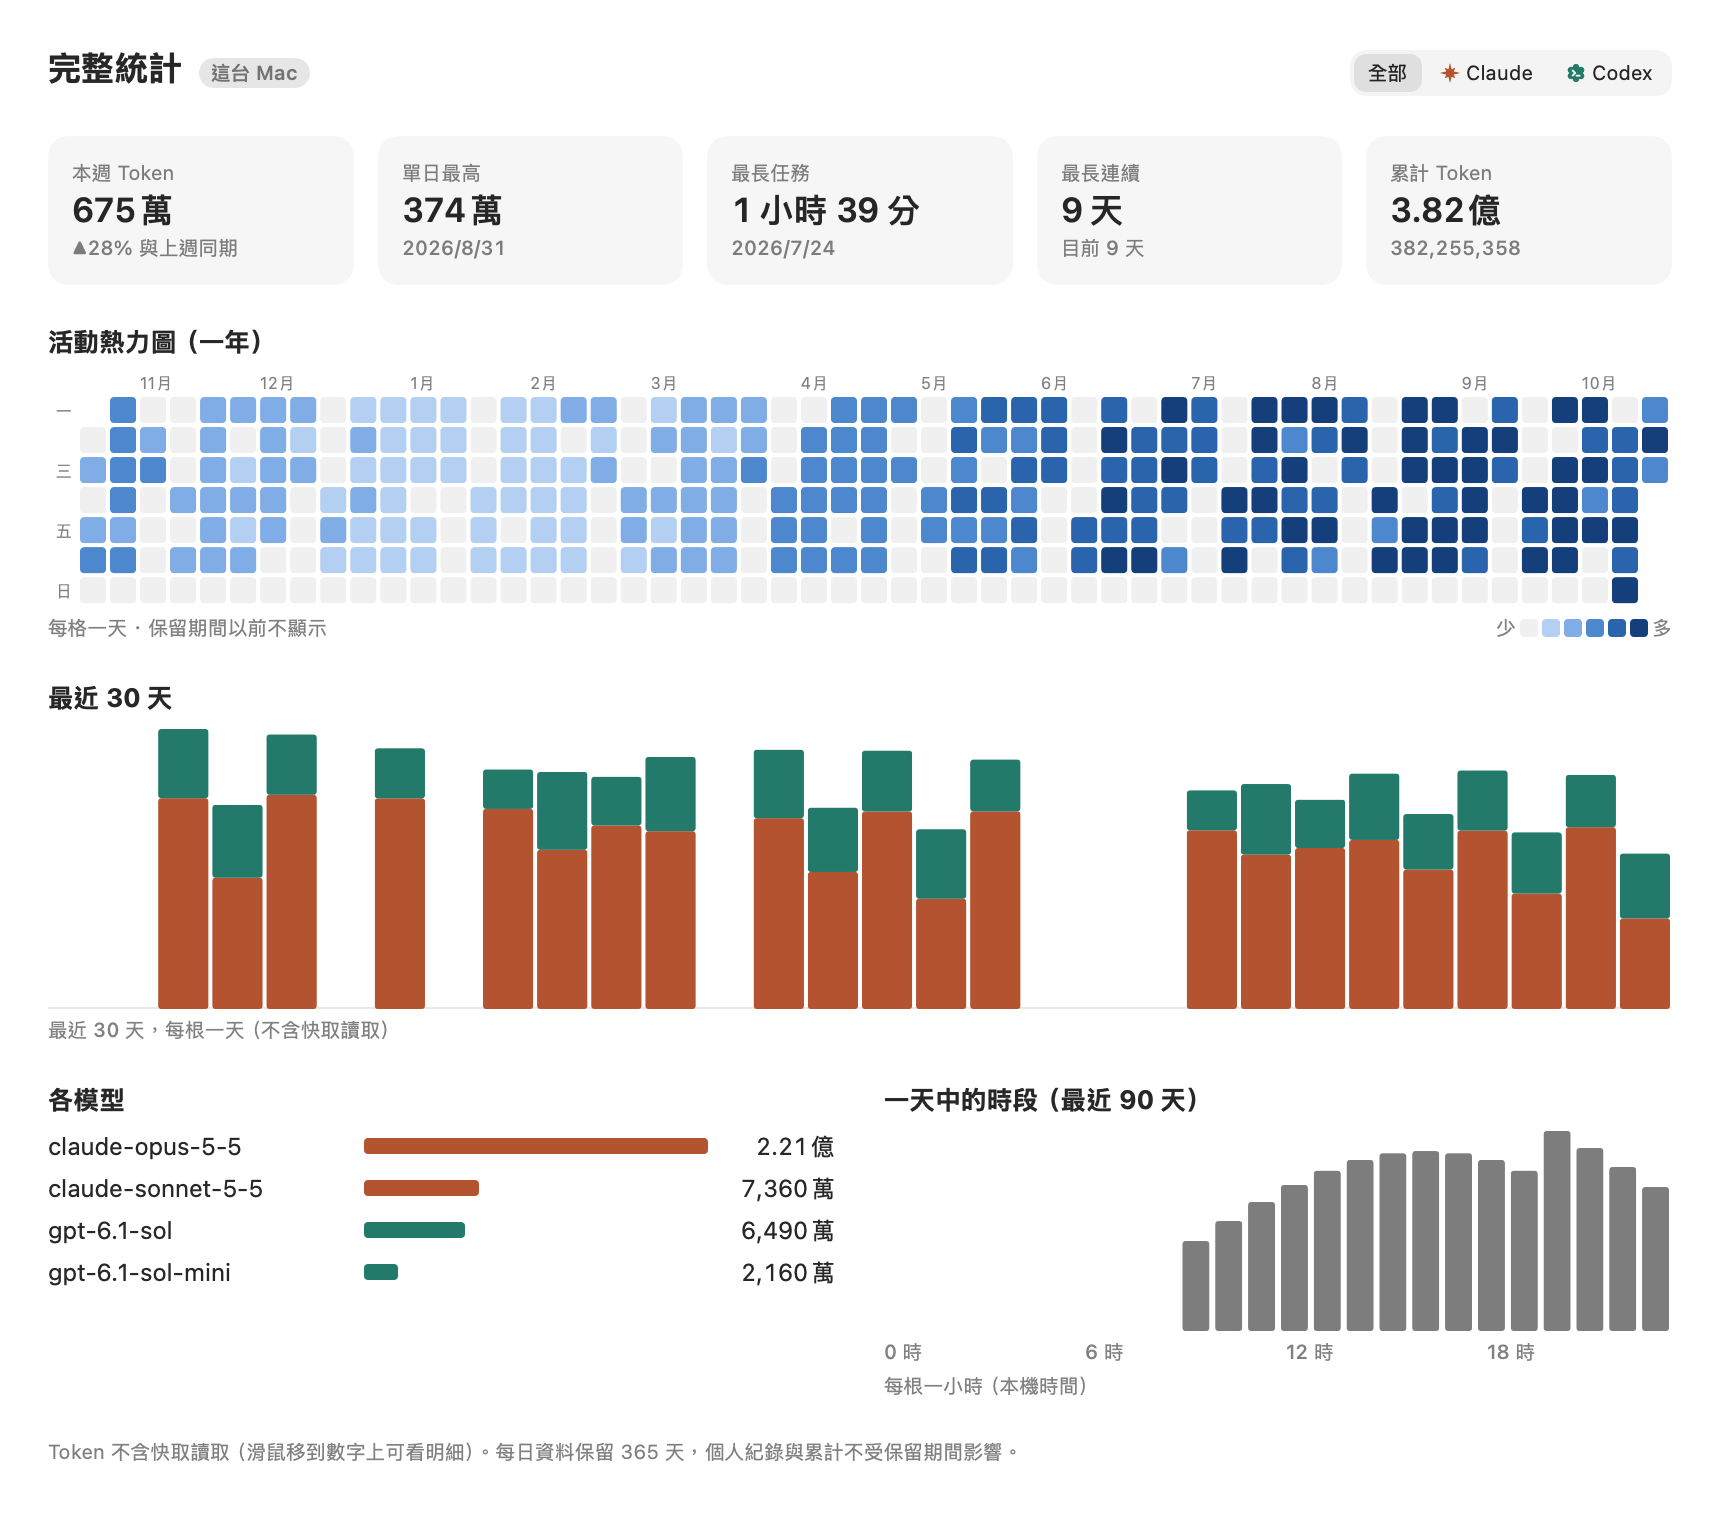
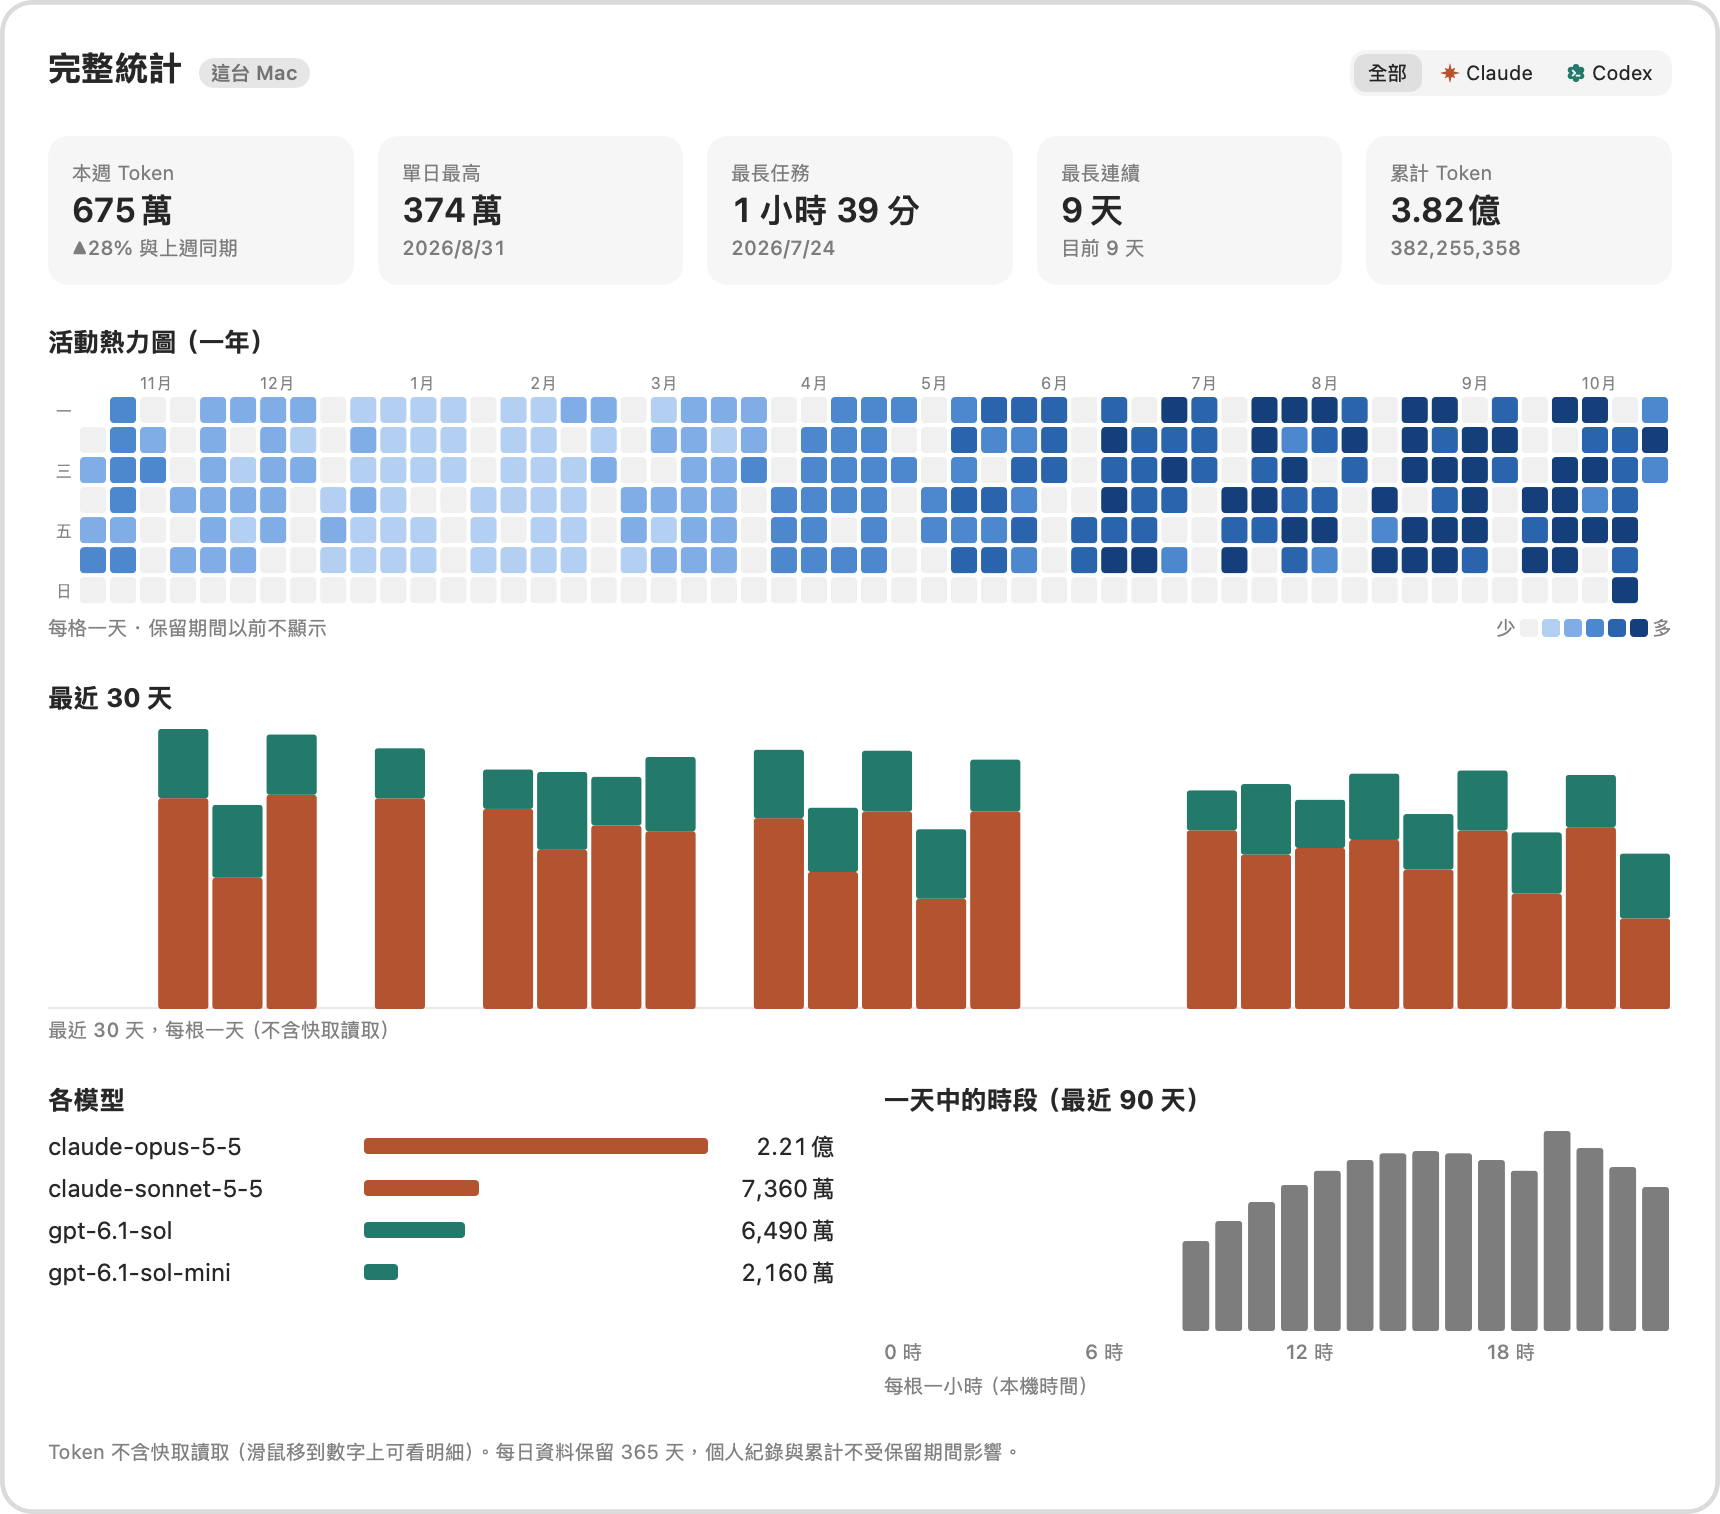
docs: README screenshots in equal-height rows with frames
The top row is the upper half of the Mac panel next to the iPhone app
(the full panel moves into a collapsible section), then the Dynamic
Island next to the watch. The stats GIF sits beside the full stats
window instead of beside the panel. Widths are chosen so images in a
row have the same height, and every screen gets rounded corners and a
thin border so white screens no longer blend into the page.

Changed region(s): [[0.0, 0.0, 1.0, 1.0]]

diff --git a/README.md b/README.md
@@ -6,30 +6,36 @@
 
 > 目前發布的版本是 [0.5.0](CHANGELOG.md#050---2026-10-21)（只有原始碼）。之後的 Mac 面板與 Token 統計（v1.5～v1.8）、iPhone 小工具，以及外觀設定、一鍵安裝、設定精靈與 iPhone 配對（v1.9）已在 `main`，**尚未發版**，見 [CHANGELOG](CHANGELOG.md) 的 Unreleased 與[里程碑](docs/03-development-workflow.md#1-里程碑)。下表標「未發版」的功能要從原始碼安裝。
 
+<!-- 同一排的圖以寬度算成等高（SOURCES.tsv 的尺寸 × 寬度）；用 width 不用 height，窄螢幕時換行而不是壓扁 -->
+<p align="center">
+  <picture>
+    <source media="(prefers-color-scheme: dark)" srcset="docs/images/mac-panel-top-dark.png">
+    <img src="docs/images/mac-panel-top-light.png" width="291" alt="Mac 選單列面板的上半部：剩餘最少的額度、建議接下來用、各服務各額度的進度條與預期標記">
+  </picture>
+  &nbsp;&nbsp;
+  <picture>
+    <source media="(prefers-color-scheme: dark)" srcset="docs/images/iphone-app-dark.png">
+    <img src="docs/images/iphone-app-light.png" width="221" alt="iPhone App：剩餘最少的額度、各服務各額度的進度條與重置倒數">
+  </picture>
+</p>
+
+<p align="center">
+  <img src="docs/images/iphone-island.png" width="486" alt="動態島展開：剩餘最少的額度大字、兩個服務各額度的進度條與更新按鈕">
+  &nbsp;&nbsp;
+  <img src="docs/images/watch-app.png" width="159" alt="Apple Watch App：剩餘最少的額度與各額度進度條">
+</p>
+
+<details>
+<summary>看完整的 Mac 面板（接下來的重置、本週額度走勢、額度消耗、Token 統計、服務狀態）</summary>
+
 <p align="center">
   <picture>
     <source media="(prefers-color-scheme: dark)" srcset="docs/images/mac-panel-dark.png">
     <img src="docs/images/mac-panel-light.png" width="300" alt="Mac 選單列面板：剩餘最少的額度、建議接下來用、各額度進度條、接下來的重置、本週額度走勢、額度消耗、這台 Mac 的 Token 統計與服務狀態">
   </picture>
-  &nbsp;
-  <picture>
-    <source media="(prefers-color-scheme: dark)" srcset="docs/images/mac-stats-switch-dark.gif">
-    <img src="docs/images/mac-stats-switch-light.gif" width="300" alt="統計卡片依序切換全部、Claude、Codex：全部的熱力圖是藍色色階，Claude、Codex 用各自的識別色；Token 數以萬、億顯示">
-  </picture>
 </p>
 
-<p align="center">
-  <picture>
-    <source media="(prefers-color-scheme: dark)" srcset="docs/images/iphone-app-dark.png">
-    <img src="docs/images/iphone-app-light.png" width="240" alt="iPhone App：剩餘最少的額度、各服務各額度的進度條與重置倒數">
-  </picture>
-  &nbsp;
-  <img src="docs/images/watch-app.png" width="200" alt="Apple Watch App：剩餘最少的額度與各額度進度條">
-</p>
-
-<p align="center">
-  <img src="docs/images/iphone-island.png" width="440" alt="動態島展開：剩餘最少的額度大字、兩個服務各額度的進度條與更新按鈕">
-</p>
+</details>
 
 截圖都是示範資料（Debug 版的 `AUM_DEMO`／`scripts/make-demo-history.py`），不是真實用量；由 `scripts/update-readme-images.sh` 產生（來源見 `docs/images/SOURCES.tsv`）。
 
@@ -42,10 +48,17 @@
 | Mac 選單列 | 選單列圖示（雙圓環）顯示剩餘最少的額度；卡片式面板：建議接下來用、各額度與「照目前速度」的預測、接下來的重置（8 小時時間軸與每週額度可撐到星期幾）、本週額度走勢、額度消耗熱力圖、這台 Mac 的 Token 統計（本週、單日最高、最長任務、連續天數、活動熱力圖）、服務狀態（分辨「服務異常」與「額度用完」）；完整統計視窗；通知（剩不到 20%、用得太快、額度重置；「剩不到 20%」預設開，其他預設關）；右鍵選單與全域快捷鍵；卡片可排序、收合、隱藏；外觀設定（跟隨系統、淺色、深色）；第一次打開時的設定精靈。v1.5 以後的面板與這些功能都未發版 |
 | 收集器 | 每 5 分鐘執行 Claude Code 的 `/usage` 與 Codex CLI 的 `app-server` 取得額度，寫本機快照、額度歷史與 Token 統計，並上傳精簡快照到你自己的中繼。由 App 內建的背景收集器（未發版）或 `install-launchd.sh` 裝的 launchd 工作執行，兩者不會同時跑 |
 
+Token 統計：面板的統計卡片可切換全部、Claude、Codex（左）；「完整統計」視窗看一整年、各模型與一天中的時段（右）。
+
 <p align="center">
   <picture>
+    <source media="(prefers-color-scheme: dark)" srcset="docs/images/mac-stats-switch-dark.gif">
+    <img src="docs/images/mac-stats-switch-light.gif" width="265" alt="統計卡片依序切換全部、Claude、Codex：全部的熱力圖是藍色色階，Claude、Codex 用各自的識別色；Token 數以萬、億顯示">
+  </picture>
+  &nbsp;&nbsp;
+  <picture>
     <source media="(prefers-color-scheme: dark)" srcset="docs/images/mac-stats-window-dark.png">
-    <img src="docs/images/mac-stats-window-light.png" width="720" alt="完整統計視窗：一年活動熱力圖（全部為藍色色階）、最近 30 天長條、各模型與一天中的時段">
+    <img src="docs/images/mac-stats-window-light.png" width="432" alt="完整統計視窗：一年活動熱力圖（全部為藍色色階）、最近 30 天長條、各模型與一天中的時段">
   </picture>
 </p>
 
@@ -54,7 +67,7 @@
 <p align="center">
   <picture>
     <source media="(prefers-color-scheme: dark)" srcset="docs/images/mac-settings-appearance-dark.png">
-    <img src="docs/images/mac-settings-appearance-light.png" width="460" alt="Mac 設定的「外觀」：跟隨系統、淺色、深色">
+    <img src="docs/images/mac-settings-appearance-light.png" width="440" alt="Mac 設定的「外觀」：跟隨系統、淺色、深色">
   </picture>
 </p>
 
@@ -130,7 +143,7 @@ curl -fsSL https://github.com/kevin930326/ai-usage-monitor/releases/download/vX.
 <p align="center">
   <picture>
     <source media="(prefers-color-scheme: dark)" srcset="docs/images/mac-wizard-dark.png">
-    <img src="docs/images/mac-wizard-light.png" width="360" alt="設定精靈：App 位置、背景收集器、Claude Code、Codex、通知、登入時開啟、外觀、在 iPhone 上看，每步顯示完成或需要處理">
+    <img src="docs/images/mac-wizard-light.png" width="300" alt="設定精靈：App 位置、背景收集器、Claude Code、Codex、通知、登入時開啟、外觀、在 iPhone 上看，每步顯示完成或需要處理">
   </picture>
 </p>
 
@@ -180,7 +193,7 @@ cd ai-usage-monitor
 <p align="center">
   <picture>
     <source media="(prefers-color-scheme: dark)" srcset="docs/images/iphone-settings-pairing-dark.png">
-    <img src="docs/images/iphone-settings-pairing-light.png" width="260" alt="iPhone 設定：中繼網址與讀取密鑰，下方「從 Mac 配對」有「掃描 QR 碼」與「輸入短碼」">
+    <img src="docs/images/iphone-settings-pairing-light.png" width="221" alt="iPhone 設定：中繼網址與讀取密鑰，下方「從 Mac 配對」有「掃描 QR 碼」與「輸入短碼」">
   </picture>
 </p>
 

diff --git a/CHANGELOG.md b/CHANGELOG.md
@@ -14,7 +14,7 @@
 - 通知「剩不到 20%」預設開，第一次打開 App 時要求權限；系統設定關閉通知時，設定顯示「通知已在系統設定中關閉」與「打開系統設定」
 
 ### Added
-- README 截圖：`scripts/update-readme-images.sh` 依 `docs/images/SOURCES.tsv` 以固定時間與示範資料重新產生（Mac 與動態島用 ImageRenderer，iPhone 主畫面、設定與手錶用模擬器截圖）；主要畫面有淺色、深色兩版，README 以 `<picture>` 依讀者的系統顯示；新增外觀設定的截圖，統計切換的 GIF 改為全部 → Claude → Codex → 全部。`scripts/check-readme-images.py`（verify-all、CI）在 README 引用的圖不存在或沒有來源時失敗，比對應的截圖基準舊時提醒
+- README 截圖：`scripts/update-readme-images.sh` 依 `docs/images/SOURCES.tsv` 以固定時間與示範資料重新產生（Mac 與動態島用 ImageRenderer，iPhone 主畫面、設定與手錶用模擬器截圖）；主要畫面有淺色、深色兩版，README 以 `<picture>` 依讀者的系統顯示；新增外觀設定的截圖，統計切換的 GIF 改為全部 → Claude → Codex → 全部。開頭一排是 Mac 面板的上半部（完整面板收在「看完整的 Mac 面板」）與 iPhone、下一排是動態島與手錶，同一排等高；統計 GIF 與完整統計視窗並排；畫面加上圓角與細邊框（`scripts/readme-image-post.swift`，SOURCES.tsv 第 5 欄）。`scripts/check-readme-images.py`（verify-all、CI）在 README 引用的圖不存在或沒有來源時失敗，比對應的截圖基準舊時提醒
 - 外觀設定（v1.9，FR-51、FR-52，#81）：Mac 設定「外觀」可選跟隨系統（預設）、淺色、深色，套用到面板、設定、完整統計與設定精靈的視窗，選單列圖示仍跟隨選單列；iPhone 設定「外觀」只套用到 App 本身，Live Activity、小工具與手錶跟隨系統。切換有 0.3 秒過渡，減少動態效果時直接換
 - Mac 一鍵安裝與內建收集器（v1.9，FR-53，ADR-0013，#83）：發布版 App 內嵌 Python（python-build-standalone 3.13 arm64，固定 SHA-256）與收集器，以 `SMAppService.agent` 註冊背景收集器；`scripts/build-release.sh` 產生 .zip、.dmg、寫好版本與 SHA-256 的一行安裝 `install.sh`（驗證 SHA-256、bundle ID、簽章；重跑即更新；`--uninstall`）；`.github/workflows/release.yml` 在 `v*` tag 只建立草稿 Release（附建置來源證明）。偵測到 `install-launchd.sh` 的舊收集器時**不註冊**，只提示，使用者按「改用內建收集器」才遷移；設定新增「背景收集器」
 - 首次設定精靈（v1.9，FR-54，#84）：第一次打開、還沒有用量資料時顯示 8 個步驟（App 位置、背景收集器、Claude Code、Codex、通知、登入時開啟、外觀、在 iPhone 上看），每步顯示完成或要處理的事，需要指令時附「複製」；可從「設定 › 一般 › 重新執行設定精靈」再打開
